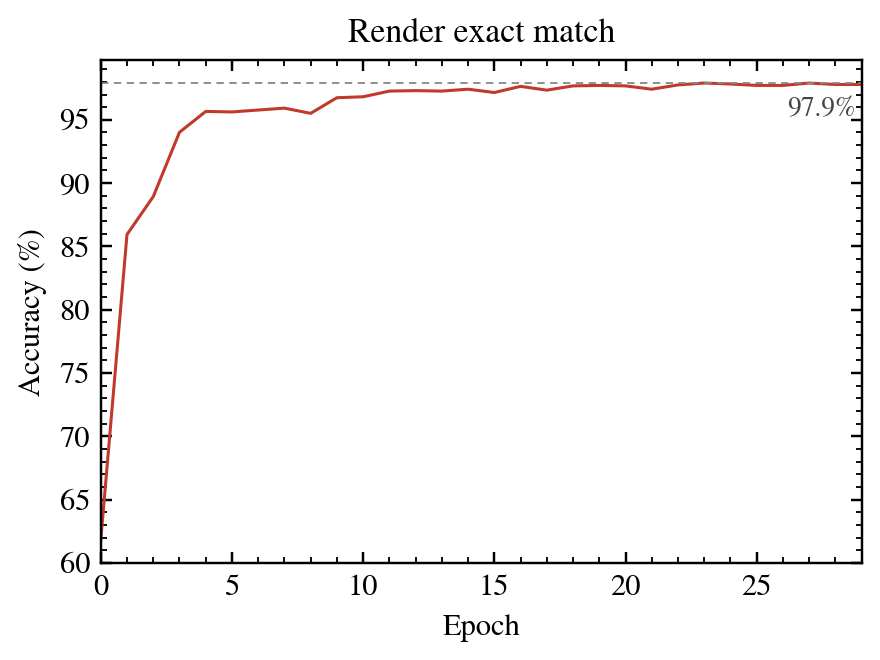
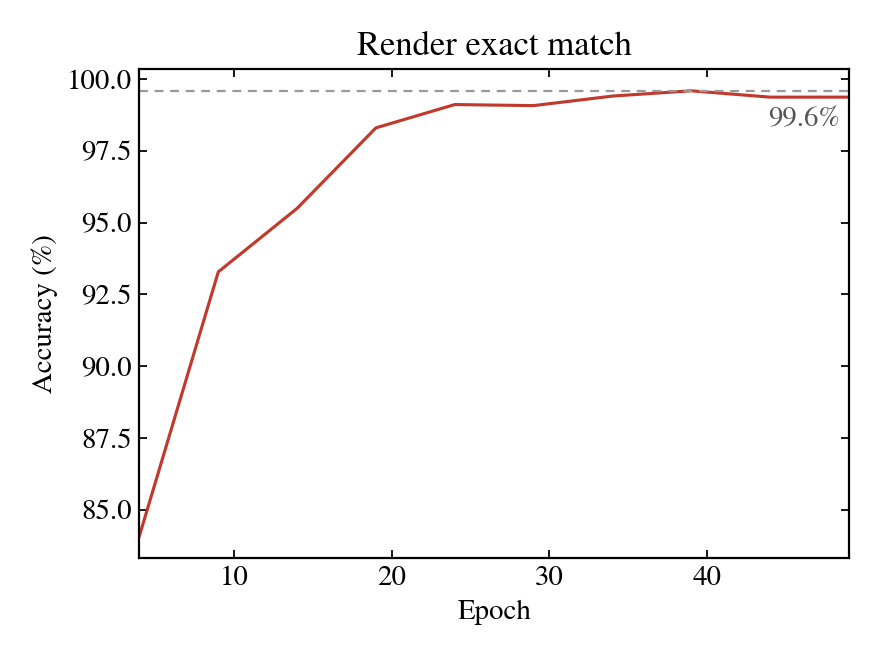
eqasm 포스트 신모델 반영: 학습 곡선 2장 교체(50 epoch 실로그, LaTeX 87.7%·렌더 99.6%)·파라미터 4.8억·B200·기출 실물 수식 8.8만 건 라벨 서술 추가

diff --git a/research/eqasm.html b/research/eqasm.html
@@ -126,7 +126,7 @@
 
 <h2>3. 모델 아키텍처 및 학습 설계</h2>
 
-<p>EqASM은 약 3억 파라미터의 encoder–decoder Transformer입니다. 입력은 수식 영역 안의 글자 조각 집합이고, 조각마다 문자 token과 bounding box 기하 정보를 embedding으로 변환해 더합니다. 조각들이 입력되는 순서에 따른 품질 차이를 해소하고자, 순서 정보는 의도적으로 임베딩에서 제외했습니다.</p>
+<p>EqASM은 약 4.8억 파라미터의 encoder–decoder Transformer입니다. 입력은 수식 영역 안의 글자 조각 집합이고, 조각마다 문자 token과 bounding box 기하 정보를 embedding으로 변환해 더합니다. 조각들이 입력되는 순서에 따른 품질 차이를 해소하고자, 순서 정보는 의도적으로 임베딩에서 제외했습니다.</p>
 
 <figure class="shots single">
   <img src="../assets/research/eqasm/arch.png" alt="EqASM 모델 구조도">
@@ -157,9 +157,9 @@ consumed = consumed.scatter(1, pos.unsqueeze(1), (~is_struct).unsqueeze(1)) | co
 <p>학습은 다음과 같이 진행했습니다.</p>
 
 <ul>
-<li><strong>데이터</strong> — 수작업 라벨링 없음. 자체 조판 엔진이 수식 코드를 실제 PDF로 조판하고, 그 결과에서 (조각 집합 → 정답 LaTeX) 쌍을 자동 생성. 인쇄 공백, 가는 분수 막대, 복합 첨자 등 실제 시험지에서 나타나는 형태를 증강으로 추가.</li>
-<li><strong>인프라</strong> — NVIDIA RTX 5090, PyTorch bfloat16 autocast, 배치 256.</li>
-<li><strong>최적화</strong> — AdamW, cosine decay + warmup, gradient clipping 1.0, 30 epoch.</li>
+<li><strong>데이터</strong> — 수작업 라벨링 없음. 자체 조판 엔진이 수식 코드를 실제 PDF로 조판하고, 그 결과에서 (조각 집합 → 정답 LaTeX) 쌍을 자동 생성. 여기에 기출 시험지 1,196부에서 추출한 실제 수식 약 8만 8천 건을 추가하고, 각 라벨은 다시 조판한 결과를 원본 조각과 좌표로 대조해 검증. 인쇄 공백, 가는 분수 막대, 복합 첨자, 여러 겹으로 중첩된 분수 등 실제 시험지에서 나타나는 형태를 증강으로 추가.</li>
+<li><strong>인프라</strong> — NVIDIA B200, PyTorch bfloat16 autocast, 배치 256.</li>
+<li><strong>최적화</strong> — AdamW, cosine decay + warmup, gradient clipping 1.0, 50 epoch.</li>
 <li><strong>채점</strong> — 출력 LaTeX를 같은 조판 엔진으로 다시 그려 원본 잉크와 픽셀 대조. 사람의 채점 없이 렌더 비교로 정답 여부를 판정.</li>
 </ul>
 
@@ -169,9 +169,9 @@ consumed = consumed.scatter(1, pos.unsqueeze(1), (~is_struct).unsqueeze(1)) | co
   <figcaption>검증셋 학습 곡선. 왼쪽: 출력 LaTeX 문자열이 정답과 정확히 일치한 비율 · 오른쪽: 다시 조판한 렌더가 원본과 일치한 비율</figcaption>
 </figure>
 
-<p>검증 최고치는 LaTeX 문자열 일치 86.9%, 렌더 일치 97.9%<sup>*</sup>입니다. 두 수치의 차이는 같은 모양을 만드는 LaTeX 표기가 여러 가지이기 때문에 생깁니다. 문자열이 달라도 조판 결과가 같으면 정답이므로, 서비스 기준 지표는 렌더 일치입니다.</p>
+<p>검증 최고치는 LaTeX 문자열 일치 87.7%, 렌더 일치 99.6%<sup>*</sup>입니다. 두 수치의 차이는 같은 모양을 만드는 LaTeX 표기가 여러 가지이기 때문에 생깁니다. 문자열이 달라도 조판 결과가 같으면 정답이므로, 서비스 기준 지표는 렌더 일치입니다.</p>
 
-<p class="fig-fn">* 97.9% 수치는 실제 문항에서의 인식 정확도가 아니라, 실제 시험지에는 등장하지 않는 초고난도 수식을 포함한 검증 데이터셋 내에서 측정한 인식 정확도입니다.</p>
+<p class="fig-fn">* 99.6% 수치는 실제 문항에서의 인식 정확도가 아니라, 실제 시험지에는 등장하지 않는 초고난도 수식을 포함한 검증 데이터셋 내에서 측정한 인식 정확도입니다.</p>
 
 <h2>4. 결과</h2>
 
@@ -230,7 +230,7 @@ consumed = consumed.scatter(1, pos.unsqueeze(1), (~is_struct).unsqueeze(1)) | co
 
 <table>
 <tr><th></th><th>GPT-5.6 Sol</th><th>EqASM</th></tr>
-<tr><td>모델 규모</td><td>비공개 (상용 최고 성능)</td><td>약 3억 파라미터</td></tr>
+<tr><td>모델 규모</td><td>비공개 (상용 최고 성능)</td><td>약 4.8억 파라미터</td></tr>
 <tr><td>서빙</td><td>외부 API</td><td>자체 서버리스 GPU</td></tr>
 <tr><td>문항당 평균 처리 시간</td><td>14초</td><td>0.5초</td></tr>
 <tr><td>문항당 비용</td><td>약 $0.02</td><td>약 $0.0002</td></tr>